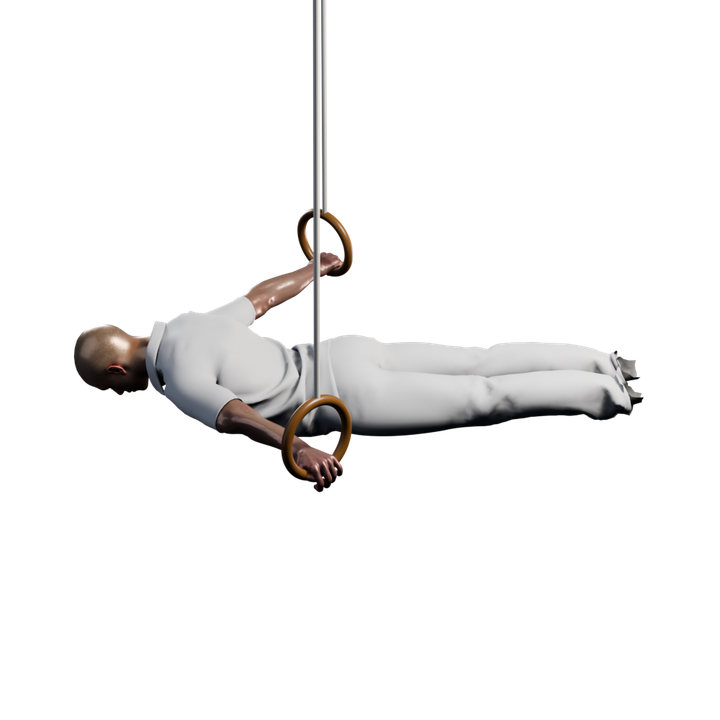
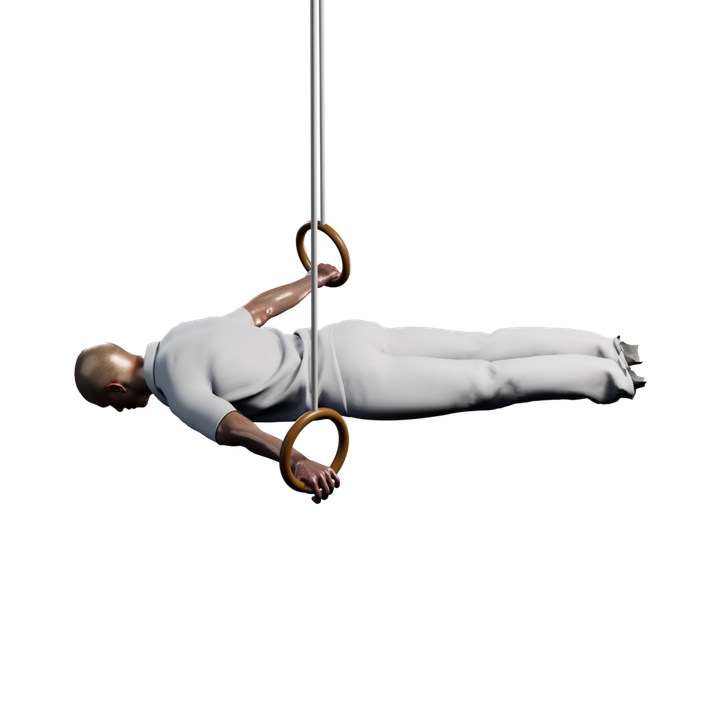
Pitch trainer band labels: 31-EDO, not 50
The `p` overlay's lock buttons and tooltips still read "50" after the small band
moved to 31-EDO.  Only the label was stale -- the target pitches come from
activeSections[].scale, i.e. the band-tuned chroma, so they were already 31-EDO.
Noted the coupling to BAND_TUNINGS so the two don't drift again.

Changed region(s): [[0.0917, 0.0, 0.9167, 0.7028]]

diff --git a/src/components/tonal/PitchTrainer.tsx b/src/components/tonal/PitchTrainer.tsx
@@ -44,7 +44,11 @@ const BAND_NAMES = ["small", "center", "large"] as const;
 const regionOf = (cents: number) => MAIN.find(r => cents >= r.lo && cents <= r.hi);
 
 interface Target { cents: number; syl: string; band: number; }
-const BAND_EDO = ["50", "12", "39"] as const;   // small / center / large tunings
+const BAND_EDO = ["31", "12", "39"] as const;   // small / center / large tunings
+                                               // (mirrors BAND_TUNINGS in
+                                               // SolfaSpectrumChords — the target
+                                               // pitches come from there, this is
+                                               // only the lock-button label)
 
 const vowelColor = (syl: string) => {
   const v = syl.slice(-1).toLowerCase();

diff --git a/scripts/statics-render/gym.py b/scripts/statics-render/gym.py
@@ -160,6 +160,16 @@ def apply_pose(rig, pose):
     reset_pose(rig)
     segs = pose["segments"]
 
+    # AIM the spine before bending it. Every limb is aimed absolutely, but the
+    # trunk was only ever given a bend, so it kept whatever direction the rest
+    # pose left it with — and the rest pose is a standing human, with a lumbar
+    # curve. The torso therefore leaned a few degrees off the body axis in every
+    # position, the legs were aimed from a pelvis that had drifted, and the line
+    # from head to ankle bowed 8 cm through the hips. A planche is judged on
+    # that line above all else.
+    for name in SPINE:
+        aim_world(rig, name, Vector((0, 0, 1)))
+
     curve = math.radians(pose.get("spine_curve", 0.0))
     lumbar = math.radians(float(pose.get("pelvic_tilt", 0.0)))
     share = {SPINE[0]: 0.38, SPINE[1]: 0.36, SPINE[2]: 0.26}
@@ -167,6 +177,26 @@ def apply_pose(rig, pose):
     for name in SPINE:
         rotate_world(rig, name, Vector((1, 0, 0)),
                      -(curve * share[name] + lumbar * extra[name]))
+
+    # Curving the trunk also TURNS it: three bones each rotated by a share of
+    # the curve leave the top of the chain rotated by the whole of it, so the
+    # head swings off the body axis and the line from head to ankle bows. The
+    # cues are meant to be shape, not direction — a flatter lumbar, a rounder
+    # back — so measure where the trunk actually ended up pointing and put the
+    # direction back, spreading the correction over the chain so the shape it
+    # just acquired survives.
+    if NECKB and NECKB[0] in rig.pose.bones and abs(curve) + abs(lumbar) > 1e-6:
+        for _ in range(2):
+            W = rig.matrix_world
+            cur = ((W @ rig.pose.bones[NECKB[0]].head)
+                   - (W @ rig.pose.bones[ROOT].head))
+            if cur.length < 1e-4:
+                break
+            q = cur.normalized().rotation_difference(Vector((0, 0, 1)))
+            if abs(q.angle) < math.radians(0.15):
+                break
+            for name in SPINE:
+                rotate_world(rig, name, q.axis, q.angle / len(SPINE))
 
     scap = float(pose.get("scapula", 0.0))
     depr = float(pose.get("depression", 0.0))
@@ -344,7 +374,13 @@ def set_grip_pose(rig, side, support=False, yaw_deg=0.0, body_axis=None):
             tt = tt - h * tt.dot(h)
         if tt.length > 0.20:
             n2 = h.cross(tt.normalized()).normalized()
-            if (n2.dot(up) > 0.0) == bool(support):
+            # ALWAYS palm-down. The ring hangs and the hand rests on top of its
+            # lowest point — in a hang exactly as much as in a support, the same
+            # way a hand sits on top of a pull-up bar with the fingers curled
+            # under. `support` used to flip this, which is why the iron cross
+            # and the inverted cross, two positions with identical hands, came
+            # out mirrored.
+            if n2.dot(up) > 0.0:
                 n2 = -n2
     if n2 is None:
         n2 = up - h * up.dot(h)
